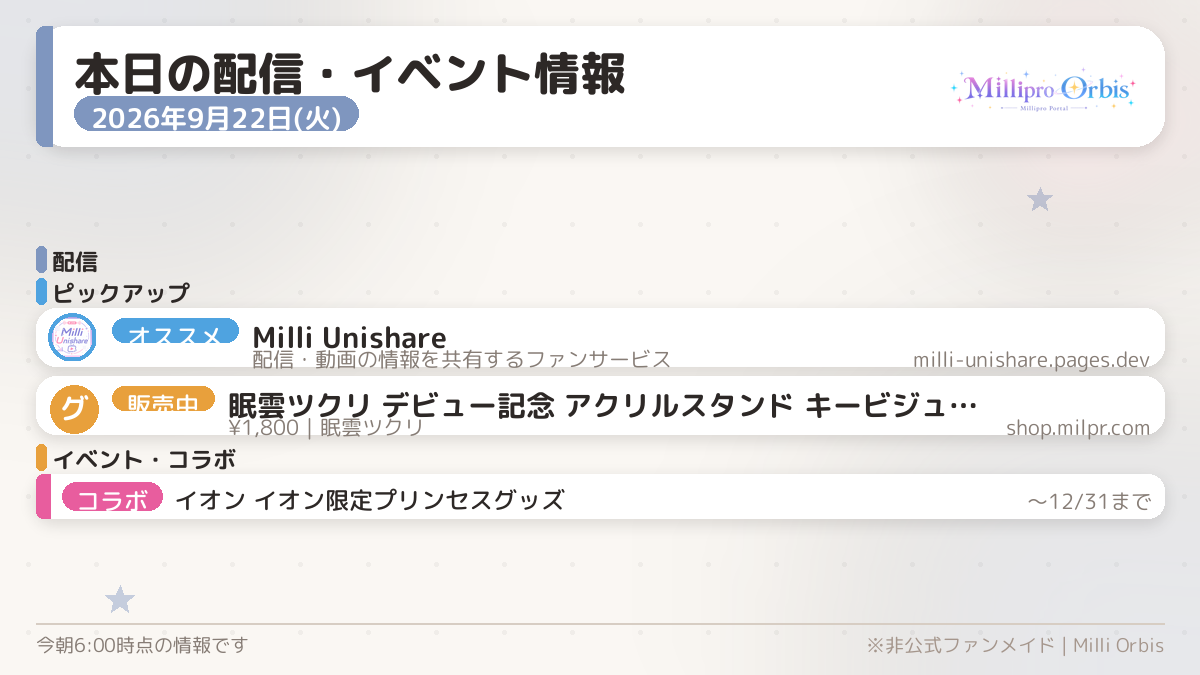
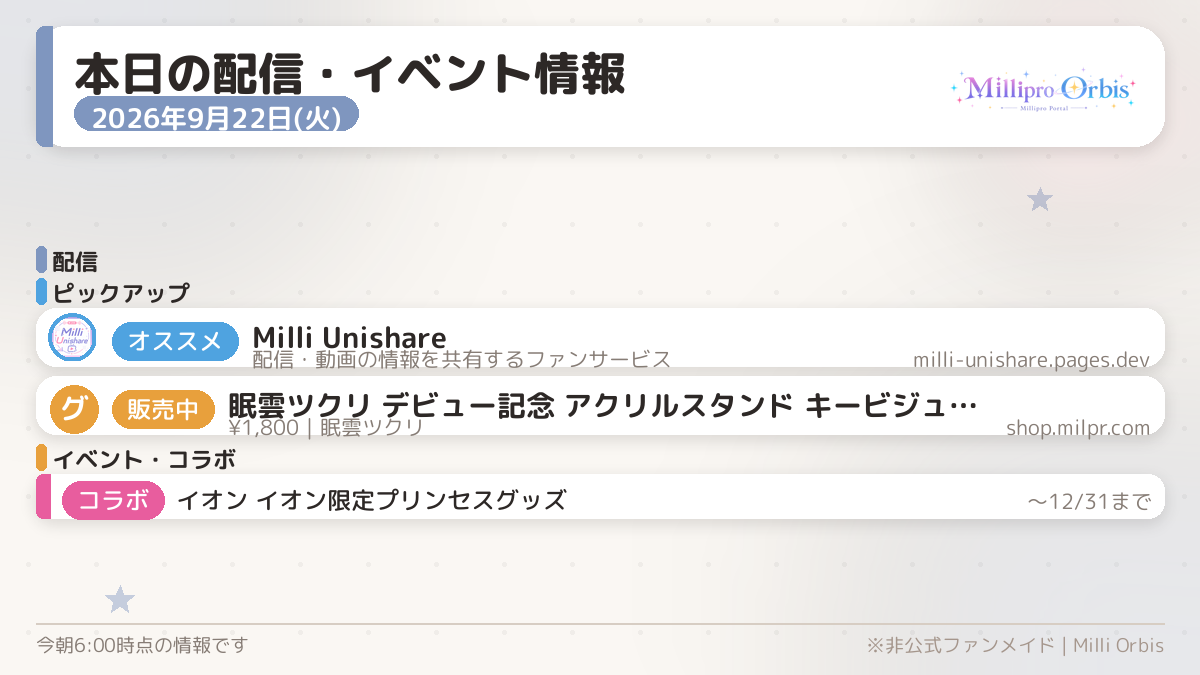
fix: ピル内文字を光学中央揃えに(オススメ・コラボ・販売中・時刻)

Changed region(s): [[0.0925, 0.4667, 0.2158, 0.6533], [0.0617, 0.7156, 0.4625, 0.7778]]

diff --git a/tools/gen-schedule-image.py b/tools/gen-schedule-image.py
@@ -203,6 +203,16 @@ def truncate(draw, text, fnt, max_w):
     return text + "…"
 
 
+def draw_pill(draw, x, y, text, fnt, fill, fg=(255, 255, 255), pad_x=15, h=None):
+    """文字を光学中央に収めたピルを描画し、幅を返す。"""
+    if h is None:
+        h = fnt.size + 14
+    tw = draw.textlength(text, font=fnt)
+    draw.rounded_rectangle([x, y, x + tw + pad_x * 2, y + h], radius=h // 2, fill=fill)
+    draw.text((x + pad_x, y + h / 2), text, font=fnt, fill=fg, anchor="lm")
+    return tw + pad_x * 2
+
+
 def circle_icon(path, size, ring):
     """正方形に切り抜いて丸アイコン化。ring色の縁付き。"""
     im = Image.open(path).convert("RGB")
@@ -343,9 +353,7 @@ def render(date, streams, collabs, promos, members, theme, out_path):
                         ch, _ = p["shape"]
                         cw = d.textlength(ch, font=f_name)
                         d.text((74 - cw / 2, y + 11), ch, font=f_name, fill=(255, 255, 255))
-                bw = int(d.textlength(p["badge"], font=f_body)) + 30
-                d.rounded_rectangle([112, y + 10, 112 + bw, y + 34], radius=12, fill=pcol)
-                d.text((112 + 15, y + 12), p["badge"], font=f_body, fill=(255, 255, 255))
+                bw = draw_pill(d, 112, y + 14, p["badge"], f_body, pcol)
                 nx = 112 + bw + 14
                 mw = d.textlength(p.get("meta", ""), font=f_small)
                 d.text((nx, y + 8), truncate(d, p["title"], f_name, W - 36 - nx - mw - 30),
@@ -377,10 +385,11 @@ def render(date, streams, collabs, promos, members, theme, out_path):
                 d.ellipse([50, y + 9, 98, y + 57], fill=color)
             pill_c = LIVE_RED if st["live"] else color
             label = ("LIVE " if st["live"] else "") + st["time"]
-            pw = max(108, int(d.textlength(label, font=f_time)) + 32)
+            tw_lab = d.textlength(label, font=f_time)
+            pw = max(108, tw_lab + 32)
             d.rounded_rectangle([112, y + 11, 112 + pw, y + 47], radius=18, fill=pill_c)
-            tx = 112 + (pw - d.textlength(label, font=f_time)) / 2
-            d.text((tx, y + 13), label, font=f_time, fill=(255, 255, 255))
+            d.text((112 + (pw - tw_lab) / 2, y + 29), label, font=f_time,
+                   fill=(255, 255, 255), anchor="lm")
             nx = 112 + pw + 14
             d.text((nx, y + 10), truncate(d, name, f_name, 172), font=f_name, fill=INK)
             d.text((nx + 186, y + 14), truncate(d, st["title"], f_body, W - 36 - (nx + 186) - 18),
@@ -398,9 +407,7 @@ def render(date, streams, collabs, promos, members, theme, out_path):
             d.rounded_rectangle([36, y, 50, y + 44], radius=8, fill=ccol)
             d.rectangle([43, y, 50, y + 44], fill=ccol)
             pill = "コラボ"
-            pw2 = int(d.textlength(pill, font=f_body)) + 28
-            d.rounded_rectangle([62, y + 8, 62 + pw2, y + 36], radius=14, fill=ccol)
-            d.text((62 + 14, y + 10), pill, font=f_body, fill=(255, 255, 255))
+            pw2 = draw_pill(d, 62, y + 7, pill, f_body, ccol)
             tx0 = 62 + pw2 + 12
             try:
                 e = datetime.date.fromisoformat(c["end"])
